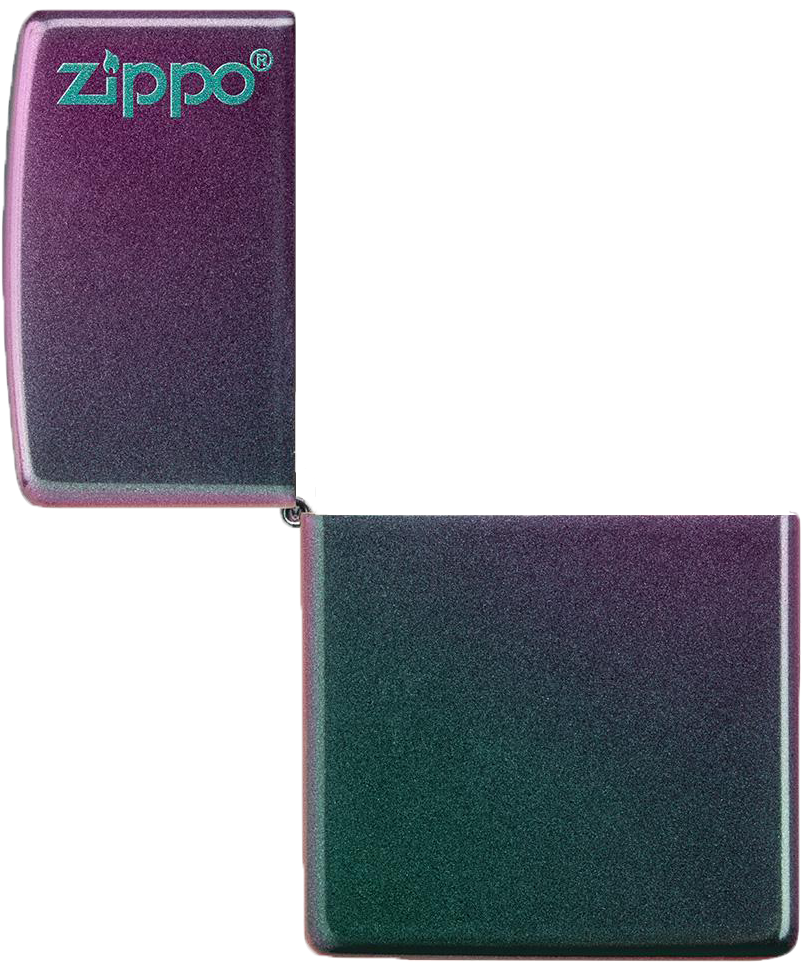
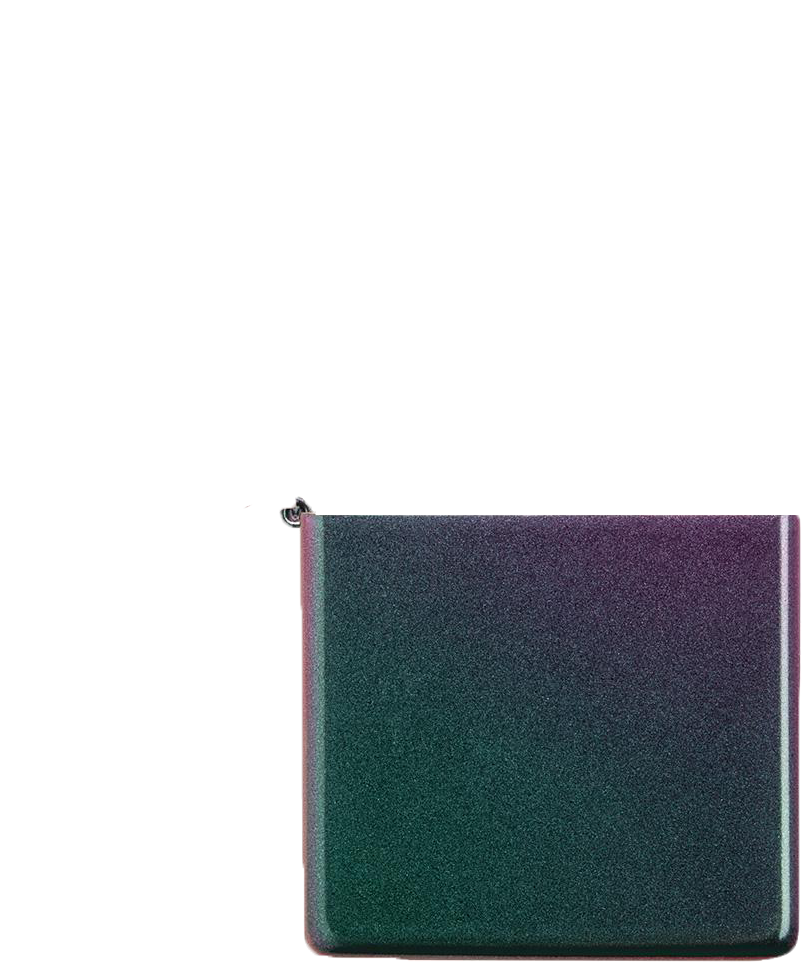
3/4 Commit 1

Changed region(s): [[0.0, 0.0, 0.3741, 0.5301]]

diff --git a/project-2/css/style.css b/project-2/css/style.css
@@ -108,14 +108,65 @@ nav a:hover {
 	grid-template-columns: 1fr 1fr;
 }
 
+.about-prompt {
+	position: fixed;
+	font-family: anton;
+	font-weight: 300;
+	font-size: 30px;
+	line-height: 35px;
+	margin-left: 18%;
+	margin-top: 20vh;
+}
+
 .about-body {
-	background-color: lightblue;
-	height: 100vh;
+	border: 1px solid lightblue;
+	height: 300vh;
+	margin-left: 50vw;
+	overflow-x: hidden;
+	width: 100%;
+	color: white;
+}
+
+.about-item {
+	margin-top: 20vh;
+	position: sticky;
+	top: 0;
+}
+
+.about-body:nth-child(2) {
+	background-color: #5fcbc5;
+}
+
+.about-body:nth-child(3) {
+	background-color: #e84879;
+}
+
+.about-item img {
+	height: 19%; 
+	width: auto; 
+	margin-left: 10%;
+}
+
+.about-item p {
+	display: inline;
+	font-family: lato;
+	font-size: 30px;
+	margin-left: 50%;
 }
 
 .demo-container {
 	display: grid;
 	grid-template-columns: 1fr 1fr;
+}
+
+.about-prompt {
+	position: fixed;
+	font-family: anton;
+	font-weight: 300;
+	font-size: 30px;
+	line-height: 35px;
+	margin-left: 25%;
+	margin-top: 15vh;
 }
 
 .demo-body {
@@ -128,8 +179,13 @@ nav a:hover {
 	width: auto;
 }
 
+.demo-lid {
+	transform-origin: bottom right;
+}
+
 .demo-case {
 	pointer-events: none;
+	cursor: n-resize;
 }
 
 .demo-insert {

diff --git a/project-2/about.html b/project-2/about.html
@@ -11,7 +11,7 @@
 
 	<div class="about-container">
 
-		<div>
+		<div style="position: fixed;">
 			<div class="logo"><img src="images/logo.svg"></div>
 			<nav class="nav">
 				<a href="gallery.html" class="nav-gallery">GALLERY</a>
@@ -19,10 +19,18 @@
 				<a href="demo.html" class="nav-demo">DEMO</a>
 				<a href="buy.html" class="nav-buy">BUY</a>
 			</nav>
+			<div><p class="about-prompt">SCROLL TO EXPLORE</p></div>
 		</div>
 
 		<div class="about-body">
-			
+			<div class="about-item">
+				<img src="images/about/about-weave.png">
+				<p>ALL-METAL BODY</p>
+			</div>
+			<div class="about-item">
+				<img src="images/about/about-weave.png">
+				<p>ALL-METAL BODY</p>
+			</div>
 		</div>
 
 	</div>
@@ -30,6 +38,8 @@
 <script src="https://ajax.googleapis.com/ajax/libs/jquery/1.12.3/jquery.min.js"></script>
 <script src="https://cdnjs.cloudflare.com/ajax/libs/slick-carousel/1.6.0/slick.min.js"></script>
 <link href="https://cdnjs.cloudflare.com/ajax/libs/slick-carousel/1.6.0/slick.min.css" rel="stylesheet"/>
+<script type="text/javascript" src="js/skrollr.min.js"></script>
+<script type="text/javascript">var s = skrollr.init();</script>
 <script src="js/script.js"></script>
 
 </body>

diff --git a/project-2/demo.html b/project-2/demo.html
@@ -19,19 +19,23 @@
 				<a href="demo.html"class="nav-demo active">DEMO</a>
 				<a href="buy.html" class="nav-buy">BUY</a>
 			</nav>
+			<div><p class="about-prompt">DRAG TO SEE INSIDE</p></div>
 		</div>
 
 		<div class="demo-body">
+			<img style="z-index: 2;" class="demo-lid" src="images/demo-lid.png">
 			<img style="z-index: 1;" class="demo-case" src="images/demo-case.png">
 			<img style="z-index: 0;" class="demo-insert" id="draggable-insert" src="images/demo-insert.png">
-			<div></div>
 		</div>
+
+		<div style="background-color: white; z-index: 3; position: absolute; right: 0; bottom: 0; width: 100%; height: 25.25vh;">
 
 	</div>
 
 <script src="https://ajax.googleapis.com/ajax/libs/jquery/1.12.3/jquery.min.js"></script>
 <script src="https://cdnjs.cloudflare.com/ajax/libs/slick-carousel/1.6.0/slick.min.js"></script>
 <link href="https://cdnjs.cloudflare.com/ajax/libs/slick-carousel/1.6.0/slick.min.css" rel="stylesheet"/>
+<script type="text/javascript" src="js/jquery-ui.min.js"></script>
 <script src="js/script.js"></script>
 
 </body>

diff --git a/project-2/js/script.js b/project-2/js/script.js
@@ -8,5 +8,5 @@ $(function(){
 });
 
 $( function() {
-	$( "#draggable-insert" ).draggable({ axis: "y", containment: "parent" });
+	$( "#draggable-insert" ).draggable({ axis: "y" });
 } );
